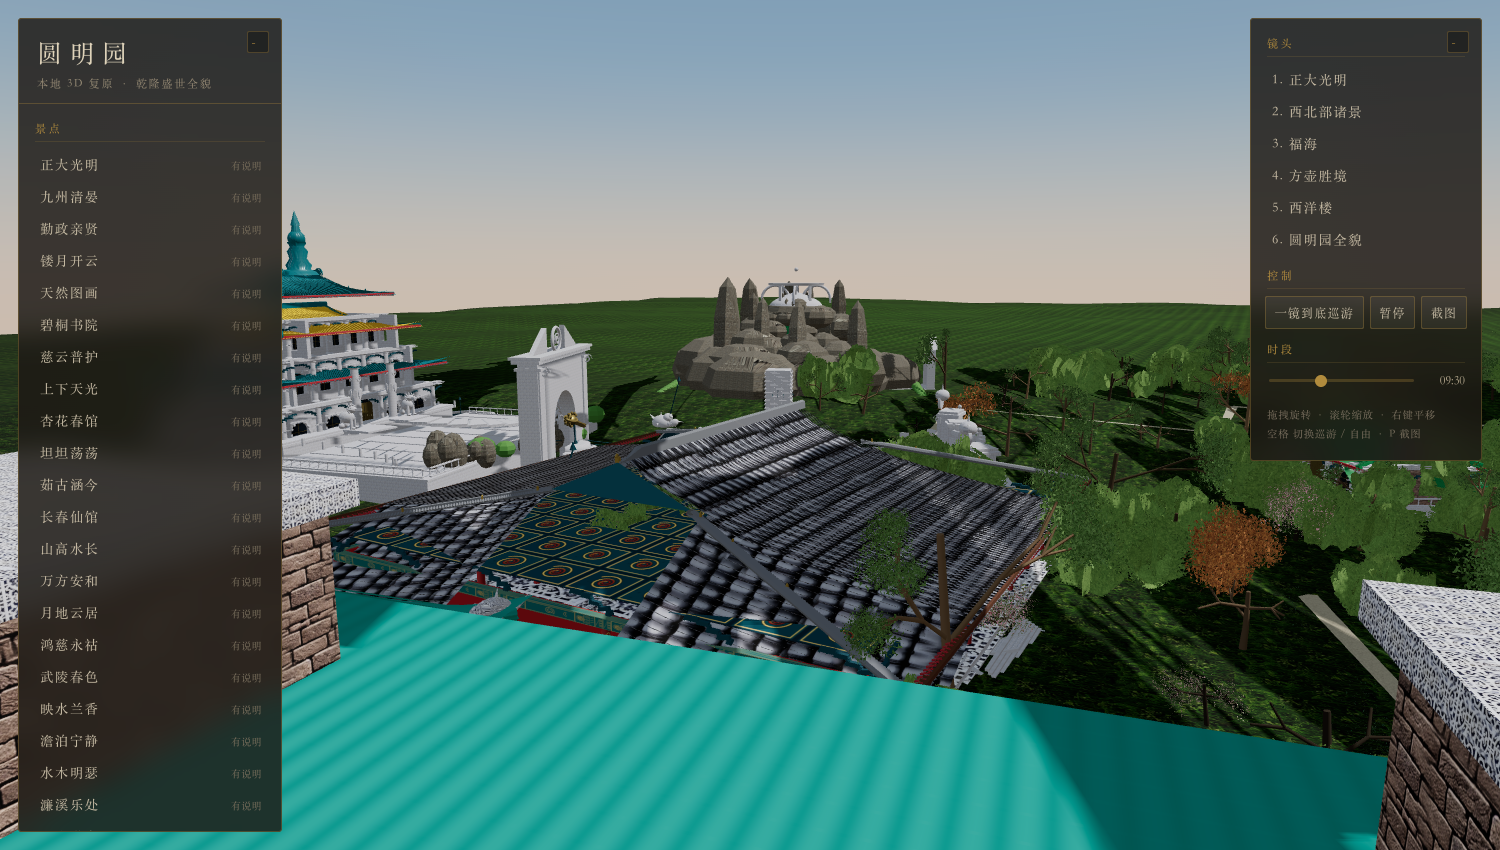
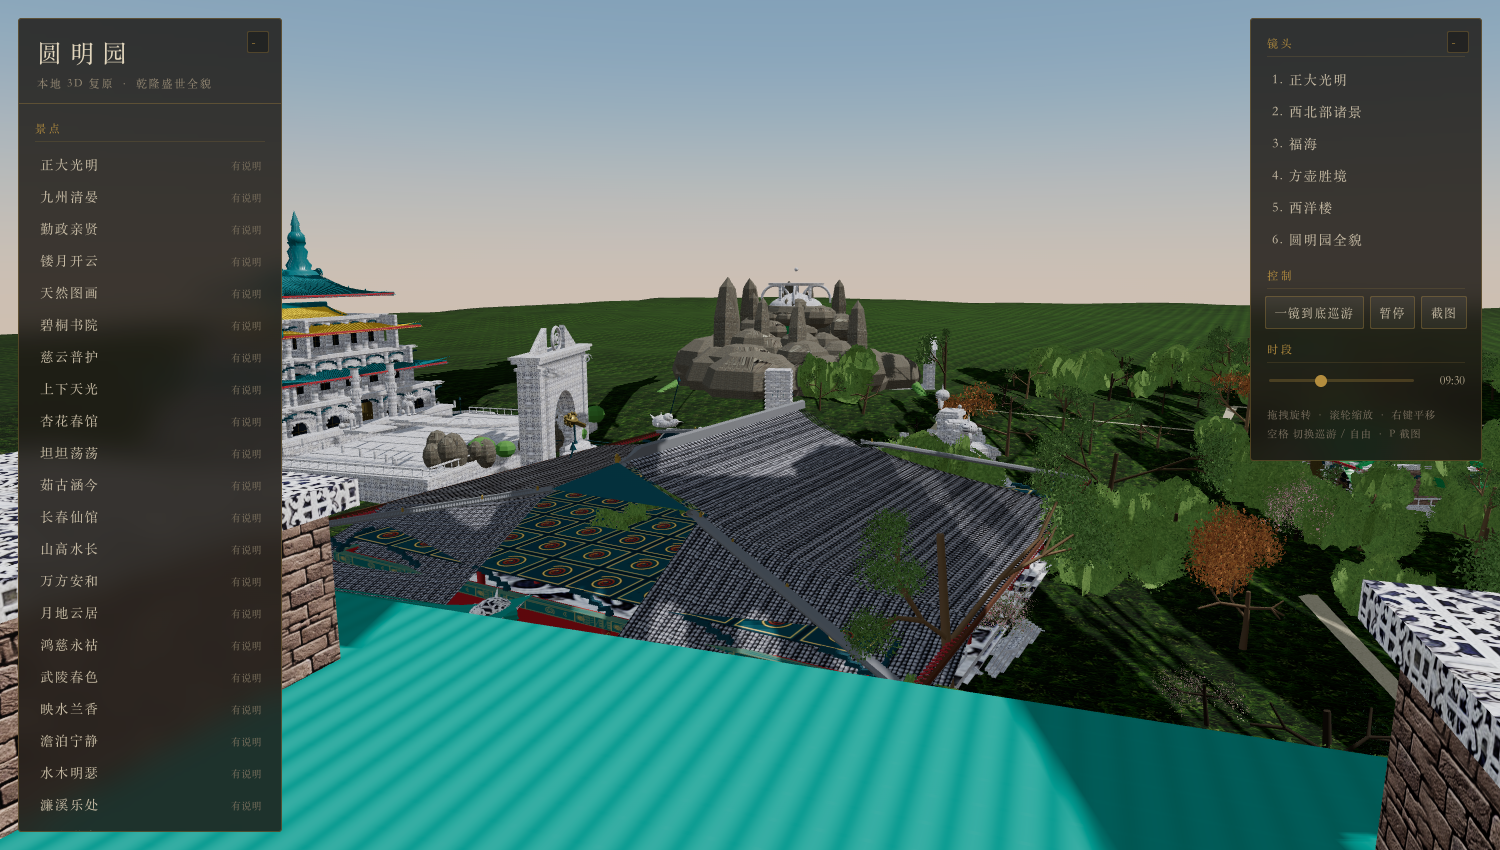
fix(瓦作): 屋面网格 UV 与筒瓦垄距对齐；西洋楼山花改石材、彩画材质复原
- 屋面网格的 UV 之前按 (width/8, depth/8) 铺，与筒瓦取样窗口（每垄一格）对不上，
  露出的板瓦面频率是瓦管的数倍，远看整片屋面成了一张花地毯。
  现在 u 按垄数铺（一循环 6 垄 = 6 根筒瓦），v 按坡长铺（一循环 6 层 = 1.5m）。
- 西洋楼歇山的山花改用石材：山花是砖石山墙，刷和玺彩画看着像铺了地毯。
- 复原被误改的彩画材质（原为洋红且去掉贴图）。
- 西洋楼石材贴图放大到一张铺 32m（番花浮雕每块约 8m），不再密排成花纹。

Changed region(s): [[0.184, 0.4894, 0.7053, 0.8259], [0.8893, 0.6729, 1.0, 0.9176], [0.0, 0.52, 0.0307, 0.7341]]

diff --git a/src/scene/buildings/parts/roof.js b/src/scene/buildings/parts/roof.js
@@ -311,17 +311,22 @@ function buildRoofCore(spec, geomsIn) {
   roofGeo.setAttribute('uv', new THREE.Float32BufferAttribute(uv, 2));
   roofGeo.setIndex(idx);
   roofGeo.computeVertexNormals();
-  // UV 按实际尺寸铺瓦垄，避免屋面出现拉伸
-  const uvAttr = roofGeo.getAttribute('uv');
-  for (let i = 0; i < uvAttr.count; i++) {
-    uvAttr.setXY(i, uvAttr.getX(i) * (width / 8), uvAttr.getY(i) * (depth / 8));
-  }
-  uvAttr.needsUpdate = true;
-  push('tile', roofGeo);
-
   /* ---------------------------------------------------- 瓦作（真构件） */
   // 筒瓦：每垄一道半圆管，沿坡向逐段铺
   const gangCount = Math.max(4, Math.floor((Wx * 2) / TILE.gang));
+
+  // 屋面 UV 与**筒瓦垄距对齐**：贴图横向一个循环 6 垄，纵向一个循环 6 层瓦当，
+  // 而一根筒瓦只取其中一垄（见 buildTongWa 的 U0/U1）。
+  // 之前屋面网格按 (width/8, depth/8) 铺，与瓦管的取样窗口对不上——
+  // 露出来的板瓦面频率是瓦管的数倍，远看整片屋面成了一张花地毯。
+  const uvAttr = roofGeo.getAttribute('uv');
+  const uScale = gangCount / 6; // 一循环 6 垄 = 6 根筒瓦
+  const vScale = (Wz * 2) / 1.5; // 一循环 6 层瓦当 = 1.5 m
+  for (let i = 0; i < uvAttr.count; i++) {
+    uvAttr.setXY(i, uvAttr.getX(i) * uScale, uvAttr.getY(i) * vScale);
+  }
+  uvAttr.needsUpdate = true;
+  push('tile', roofGeo);
   // 小屋顶（亭、轩）不做真瓦：远看无差别，却占掉大半构建时间
   const detailTiles = Wx > 3.0;
   const findStart = (x, sign) => {

diff --git a/src/scene/western-parts/materials.js b/src/scene/western-parts/materials.js
@@ -163,8 +163,16 @@ function rippleNormalTexture() {
 /* ------------------------------------------------------------------ 材质 */
 
 export function makeWesternMaterials() {
-  // 汉白玉 / 大理石：复用建筑系统的石材材质（带 AI 生成的番花浮雕贴图）
+  // 汉白玉 / 大理石：复用建筑系统的石材材质（带 AI 生成的番花浮雕贴图）。
+  // 但要**放大贴图密度**：默认一张贴图铺 8m，番花浮雕每块约 2m——
+  // 铺在广场大面上就密排成一张"地毯"。这里改成一张铺 32m，浮雕每块约 8m。
   const stone = stoneMaterial();
+  if (stone.map) {
+    stone.map = stone.map.clone();
+    stone.map.needsUpdate = true;
+    stone.map.wrapS = stone.map.wrapT = THREE.RepeatWrapping;
+    stone.map.repeat.set(1, 1);
+  }
 
   // 太湖石：粗糙灰石（平面着色，靠形体出细节）
   const rockTex = brickWall().clone();
@@ -188,7 +196,7 @@ export function makeWesternMaterials() {
   });
 
   // 彩画（额枋）：复用建筑系统的和玺彩画贴图
-  const paint = caihuaMaterial('hexi'); paint.color.setHex(0xff00ff); paint.map = null;
+  const paint = caihuaMaterial('hexi');
 
   // 斗栱：彩画木件
   const dougong = dougongMaterial();

diff --git a/src/scene/western-parts/hall.js b/src/scene/western-parts/hall.js
@@ -340,7 +340,9 @@ export function buildHall(c, opts) {
       else if (key === 'ridge') bucket = ridgeBucket;
       else if (key === 'finial') bucket = rf.finialBucket ?? tileBucket;
       else if (key === 'wall') bucket = rf.wallBucket ?? wallBucket;
-      else if (key === 'shanhua') bucket = 'paint';
+      // 山花是**砖石山墙**（清式做法是抹灰墙 + 博风板 + 悬鱼），
+      // 不是彩画。用和玺彩画刷上去，一大片山花看着像铺了地毯。
+      else if (key === 'shanhua') bucket = rf.gableBucket ?? 'stone';
       else if (key === 'eave' || key === 'wood') bucket = 'wood';
       c.addAll(bucket, list);
     }
